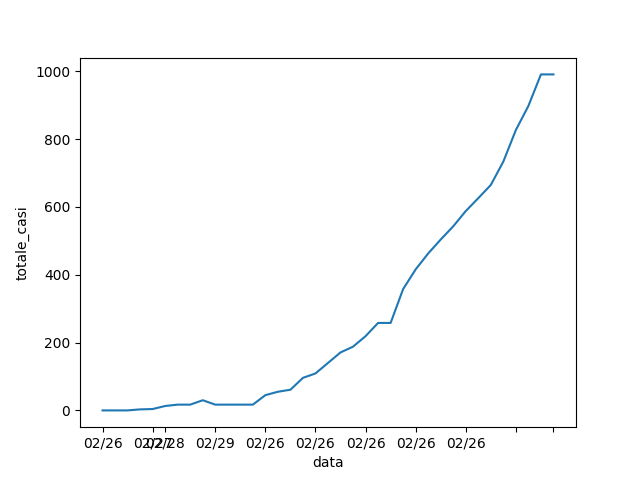
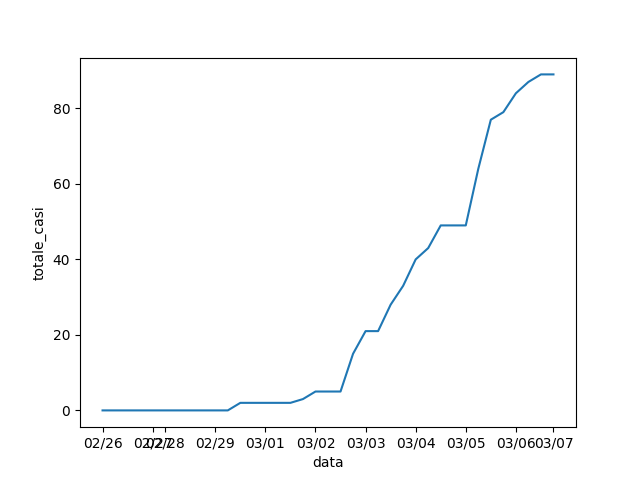
Added all the dates. Need to fix the Y axis in order to make X axis readable.

diff --git a/covidProv.py b/covidProv.py
@@ -1,22 +1,18 @@
 import matplotlib.pyplot as plt
-import numpy as np
 import pandas as pd
 import seaborn as sns
-import re
 
 # data
 prov = pd.read_csv("resources/COVID-19/dati-province/dpc-covid19-ita-province.csv")
 prov['data'] = pd.to_datetime(prov['data']).dt.round('d')
 prov['totale_casi'] = prov['totale_casi'].astype('int')
-dates = ['02/26', '02/27', '02/28', '02/29', '02/26', '02/26', '02/26', '02/26', '02/26']
-prov.loc[prov['denominazione_provincia']=='Napoli', 'sigla_provincia']="NA"
-# prov['data'] = pd.to_datetime(prov['data'])
-# prov['data'] = prov['data'].dt.strftime('%d-%m')
-sns.lineplot(x='data', y='totale_casi', data=prov[prov['sigla_provincia']=='NA'])
-l = plt.xticks()
-plt.xticks(l[0], dates)
+dates = ['02/26', '02/27', '02/28', '02/29', '03/01', '03/02', '03/03', '03/04', '03/05', '03/06', '03/07', '03/08', '03/09', '03/10', '03/11', '03/12', '03/13', '03/14', '03/15', '03/16', '03/17', '03/18', '03/19', '03/20', '03/21', '03/22', '03/23', '03/24', '03/25', '03,26', '03/27', '03/28', '03/29', '03/30', '03/31']
+prov.loc[prov['denominazione_provincia'] == 'Siracusa', 'sigla_provincia'] = "SR"
+sns.lineplot(x='data', y='totale_casi', data=prov[prov['sigla_provincia'] == 'SR'])
+latus = plt.xticks()
+plt.xticks(latus[0], dates)
 plt.show()
-fig = sns.lineplot(x='data', y='totale_casi', data=prov[prov['sigla_provincia']=='NA'])
-l = plt.xticks()
-plt.xticks(l[0], dates)
+fig = sns.lineplot(x='data', y='totale_casi', data=prov[prov['sigla_provincia'] == 'SR'])
+latus = plt.xticks()
+plt.xticks(latus[0], dates)
 fig.figure.savefig('output.png')
